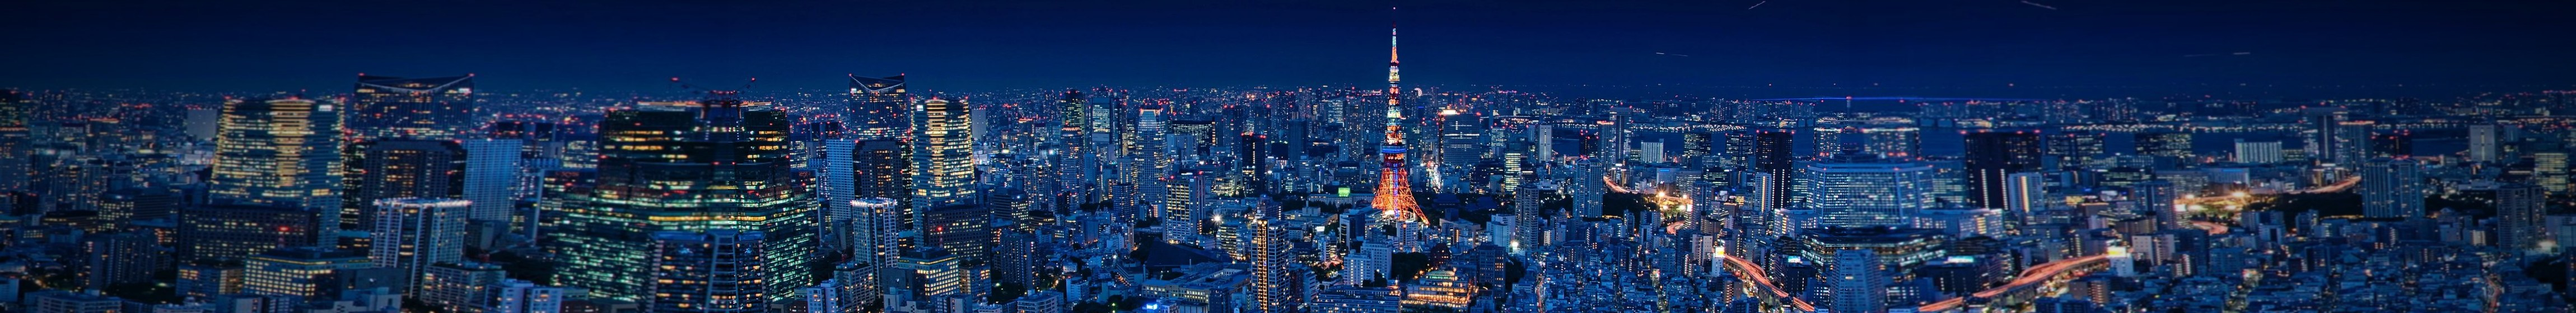
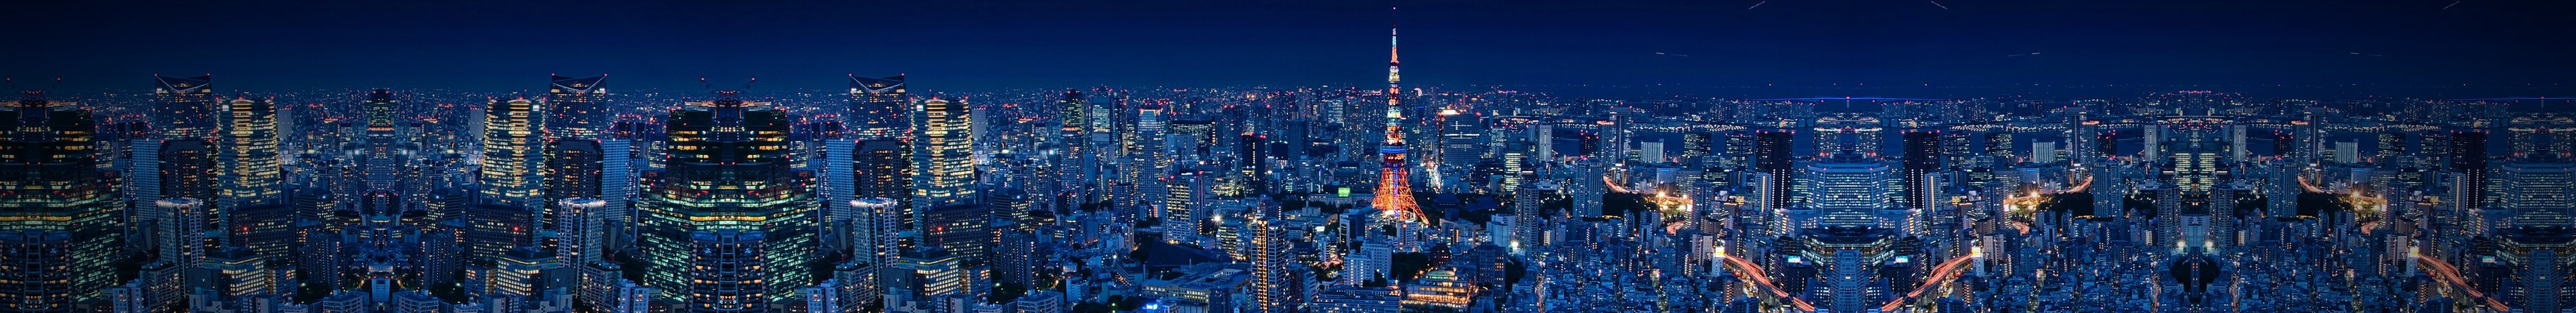
MAP 배너 - 야경 사진 좌우를 늘리지 않고 원래 배율로 이어붙이기

Changed region(s): [[0.715, 0.2732, 1.0, 1.0], [0.0, 0.2429, 0.2798, 1.0]]

diff --git a/board/board.css b/board/board.css
@@ -107,12 +107,12 @@ body.yb.gal .banner h1{text-shadow:0 2px 22px rgba(0,0,0,.7);}
 /* MAP 화면은 도쿄 야경 — 양쪽 홈페이지 공통 */
 body.mapbg .banner{background:
   linear-gradient(rgba(10,16,30,.58),rgba(12,18,32,.70)),
-  url('/images/yb_map_night.jpg') center top/cover;}
+  url('/images/yb_map_night.jpg?v=2') center top/cover;}
 body.mapbg .banner .en{color:#e8c876;}
 body.mapbg .banner h1{text-shadow:0 2px 22px rgba(0,0,0,.75);}
 body.yb.mapbg .banner{background:
   linear-gradient(rgba(8,20,38,.58),rgba(8,22,30,.70)),
-  url('/images/yb_map_night.jpg') center top/cover;}
+  url('/images/yb_map_night.jpg?v=2') center top/cover;}
 body.yb.mapbg .banner .en{color:#8fd6ff;}
 body.yb.mapbg .banner h1{text-shadow:0 2px 22px rgba(0,0,0,.75);}
 body.yb .banner .en{color:#bfe8c2;}

diff --git a/OB/map.html b/OB/map.html
@@ -57,7 +57,7 @@
 <script>
   /* 옛 화면이 캐시에 남아 새 기능이 안 보이는 것을 막는다 */
   (function () {
-    var HERE = 67;
+    var HERE = 68;
     fetch("/common/version.json?t=" + Date.now(), { cache: "no-store" })
       .then(function (r) { return r.json(); })
       .then(function (v) {

diff --git a/YB/map.html b/YB/map.html
@@ -50,7 +50,7 @@
 <script>
   /* 옛 화면이 캐시에 남아 새 기능이 안 보이는 것을 막는다 */
   (function () {
-    var HERE = 67;
+    var HERE = 68;
     fetch("/common/version.json?t=" + Date.now(), { cache: "no-store" })
       .then(function (r) { return r.json(); })
       .then(function (v) {
